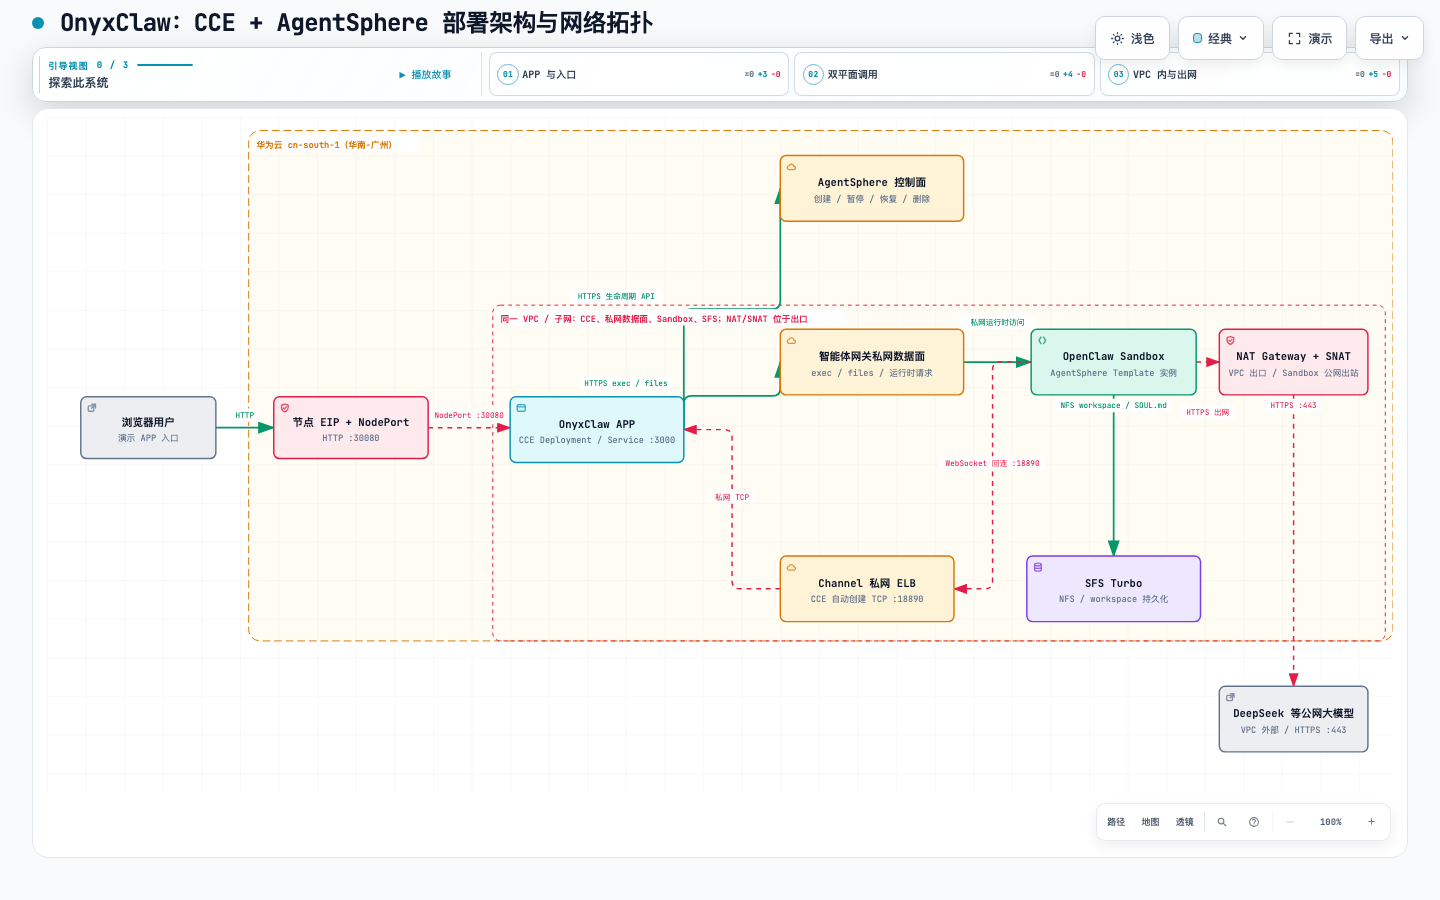
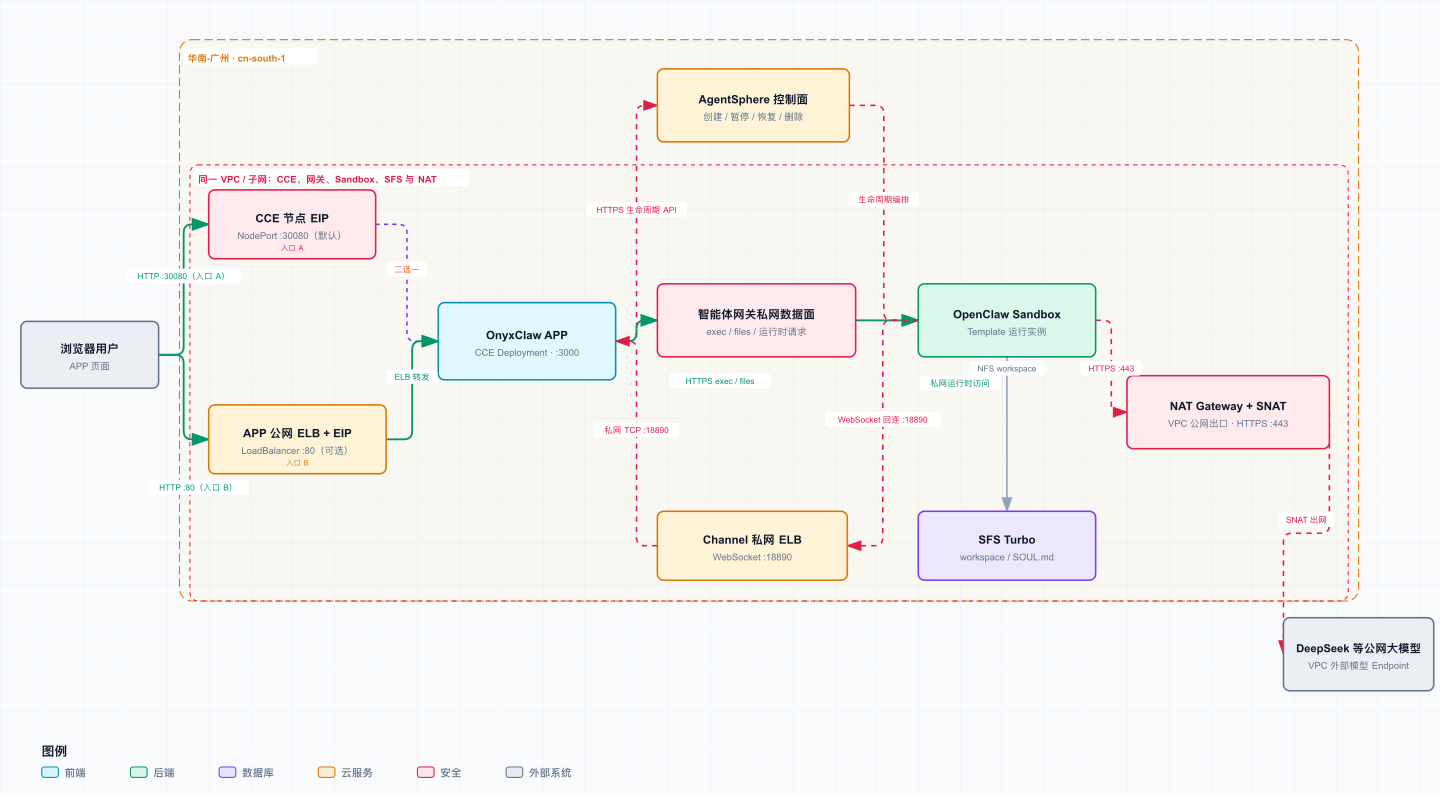
[feat]: 增加集群app elb选项；调整架构图；添加skill方便agent管理流程

diff --git a/README.md b/README.md
@@ -10,14 +10,27 @@ pause/resume → reset/kill 清理。
 
 ![OnyxClaw CCE + AgentSphere 部署架构与网络拓扑](./assets/onyxclaw-cce-agentsphere-architecture.visual-check.1440x900.light.png)
 
-拓扑的关键约束如下：
+拓扑的关键约束说明如下：
 
 - CCE、智能体网关、Template/Sandbox 与 SFS Turbo 必须在同一 VPC；网关必须开启私网访问。
 - APP 对 AgentSphere 的调用分为两条并行链路：**控制面**只处理 Sandbox 的创建、暂停、恢复与删除；
   **私网数据面**处理 `exec`、文件读写等运行时请求。
-- APP 页面使用 NodePort `30080`；Channel 由 CCE 自动创建私网 ELB，监听 `18890/TCP`，Sandbox 通过 WebSocket 回连。
+- APP 页面默认使用节点 EIP 上的 NodePort `30080`；无法绑定节点 EIP 时，可在首次部署前设置
+  `APP_ACCESS_MODE=public-elb`，由 CCE 自动创建公网 ELB 并申请、绑定 APP 专用 EIP。Channel 始终由 CCE
+  自动创建私网 ELB，监听 `18890/TCP`，Sandbox 通过 WebSocket 回连。
 - Sandbox 访问 DeepSeek 等公网模型只能走其所在子网的 NAT Gateway + SNAT；节点公网 EIP 不能代替 SNAT EIP。
-- SFS Turbo 挂载固定 workspace，保存 `SOUL.md` 等状态；AgentSphere 提供 pause/resume 能力。
+- SFS Turbo 挂载固定 workspace，保存 `SOUL.md` 等状态。
+
+APP 浏览器入口与节点 EIP 的对应关系说明：
+
+| 浏览器访问方式 | `config/config.env` | `iac/cce/terraform.tfvars` | 浏览器地址 |
+| --- | --- | --- | --- |
+| 默认：节点 EIP + NodePort | 不填写 `APP_ACCESS_MODE`（默认 `nodeport`） | `enable_worker_node_eip = true` | `http://<node-eip>:30080` |
+| 可选：APP 公网 ELB + EIP | `APP_ACCESS_MODE=public-elb` | 通常 `enable_worker_node_eip = false` | 部署输出的 `http://<elb-eip>` |
+
+公网 ELB 模式下，EIP 绑定到 APP 的 ELB，而不是工作节点。只有还要直接 SSH 到节点排障时，才在公网 ELB
+模式下保留 `enable_worker_node_eip = true`；这会额外占用一条 EIP 配额。无论选择哪种浏览器入口，API Server
+EIP 与 Sandbox 的 SNAT EIP 都仍是独立且必需的资源。
 
 ## 选择部署路径
 
@@ -25,13 +38,14 @@ pause/resume → reset/kill 清理。
 
 | 你的条件 | 推荐路径 | AI Agent 负责 | 人工必须完成 |
 | --- | --- | --- | --- |
-| 有华为云 AK/SK，且可使用 AI Agent | **最快自动化路径** | 按 Terraform 创建独立 VPC/子网、CCE、节点/EIP、NAT/SNAT 与 SFS；预检、准备 SFS、部署 APP、收集验收证据。 | 在本地安全提供 AK/SK、节点登录方式并审阅 Terraform plan；从 CCE 下载 kubeconfig；在 AgentSphere 控制台创建私网网关和 Template；填写 4 项环境信息与 2 个 API Key。 |
+| 有华为云 AK/SK，且可使用 AI Agent | **最快自动化路径** | 按 Terraform 创建独立 VPC/子网、CCE、节点/EIP、NAT/SNAT 与 SFS；预检、准备 SFS、部署 APP、收集验收证据。 | 在本地安全提供 AK/SK、节点登录方式并审阅 Terraform plan；从 CCE 下载 kubeconfig；在 AgentSphere 控制台创建私网网关和 Template；填写 4 项环境信息与 2 个 API Key。若节点不能绑定 EIP，选择 APP 的公网 ELB 入口。 |
 | 没有 AK/SK，但可使用 AI Agent | **半自动路径** | 根据本包手册检查人工创建的资源，执行 kubeconfig/RBAC 预检、SFS 准备、APP 部署、运行时 DNS 检查与验收辅助。 | 在华为云控制台创建 VPC、CCE、NAT/SNAT、SFS；下载 kubeconfig；创建私网网关和 Template；填写本地配置与密钥。 |
 | 没有 AK/SK，也没有 AI Agent | **人工路径** | 不适用。 | 按控制台手册创建云资源，按部署手册执行脚本、打开 APP，并完成全部验收。 |
 
 AI Agent 可以是 Codex 或其他能读取仓库文件、运行 Terraform / Node.js / kubectl 的 Agent。所有 Agent 都应先阅读
-[AGENTS.md](./AGENTS.md) 和 [Agent 部署 Runbook](./docs/AGENT_DEPLOYMENT.md)。AK/SK、kubeconfig、节点密码和
-API Key 只能保存在本地受保护文件或凭据环境中，不能提交、粘贴进聊天或写入 Terraform plan。
+[AGENTS.md](./AGENTS.md) 和 [Agent 部署 Runbook](./docs/AGENT_DEPLOYMENT.md)。支持 Skill 的 Agent 可使用本包的
+[OnyxClaw CCE 部署编排 Skill](./skills/onyxclaw-cce-deploy/SKILL.md)，以现有配置和脚本推进完整闭环。AK/SK、
+kubeconfig、节点密码和 API Key 只能保存在本地受保护文件或凭据环境中，不能提交、粘贴进聊天或写入 Terraform plan。
 
 ## 从零到端到端验收的闭环
 
@@ -40,7 +54,7 @@ API Key 只能保存在本地受保护文件或凭据环境中，不能提交、
 | 阶段 | 完成动作 | 继续条件 / 输出 |
 | --- | --- | --- |
 | 1. 选择路径与权限 | 选择上表路径；确认账号已开通 CCE、SFS Turbo、AgentSphere，且 Region 为 `cn-south-1`。 | 快速路径还需本地可用 AK/SK；其余路径按控制台权限执行。 |
-| 2. 创建基础设施 | 通过 Terraform 或控制台创建同一 VPC/子网中的 CCE、工作节点、NAT/SNAT 和 SFS Turbo。 | 节点为 Ready；Sandbox 子网可经 SNAT HTTPS 出网；取得 SFS ID 与 NFS 根路径。 |
+| 2. 创建基础设施 | 通过 Terraform 或控制台创建同一 VPC/子网中的 CCE、工作节点、NAT/SNAT 和 SFS Turbo；选择 APP 的浏览器入口。 | 节点为 Ready；Sandbox 子网可经 SNAT HTTPS 出网；取得 SFS ID 与 NFS 根路径。NodePort 需要节点 EIP；公网 ELB 由部署脚本后续创建并绑定 EIP。 |
 | 3. 完成人工控制台边界 | 从 CCE 下载 kubeconfig；在 AgentSphere 创建开启私网访问的网关；在同 VPC 创建 Template。 | 得到 kubeconfig、网关私网数据面 URL、Template ID。Template 的“选择镜像”直接填写固定公开 OpenClaw tag。 |
 | 4. 填写本地输入 | 运行 `./scripts/init.sh`。 | `config/config.env` 填 4 项；`config/secrets.env` 填 2 个 API Key。 |
 | 5. 准备与部署 | 初始化 SFS workspace；执行离线检查、集群预检、server dry-run 和正式部署。 | `SFS_PREPARE_OK`；APP Pod Ready；控制面和网关私网数据面 DNS 均可解析。 |
@@ -100,6 +114,7 @@ node scripts/deploy.mjs --config config/config.env --secrets config/secrets.env 
 | Terraform 创建 VPC、CCE、NAT/SNAT、SFS | [Terraform 基础设施与 CCE](./iac/cce/README.md) |
 | 人工部署命令、页面使用与完整验收 | [人工部署与使用](./docs/HUMAN_DEPLOYMENT.md) |
 | 供任意 AI Agent 执行的安全边界、证据和停止条件 | [Agent 部署 Runbook](./docs/AGENT_DEPLOYMENT.md) |
+| 支持 Skill 的 Agent 的部署编排入口 | [OnyxClaw CCE 部署编排 Skill](./skills/onyxclaw-cce-deploy/SKILL.md) |
 | 当前稳定镜像和关键运行时约束 | [稳定基线](./docs/references/CURRENT_DEMO_BASELINE.md) |
 | 空账号实际验证的经验与故障案例 | [空账号自测记录](./docs/references/NEW_ACCOUNT_VALIDATION.md) |
 

diff --git a/skills/onyxclaw-cce-deploy/SKILL.md b/skills/onyxclaw-cce-deploy/SKILL.md
@@ -1,0 +1,78 @@
+---
+name: onyxclaw-cce-deploy
+description: "编排 OnyxClaw 在华为云 CCE 与 AgentSphere 的从前置检查到端到端验收部署。适用于需要复用本仓库现有 Terraform、config 和 scripts 的受控部署；不用于另建部署器或绕过 AgentSphere 控制台步骤。"
+---
+
+# OnyxClaw CCE 部署编排
+
+在本仓库中编排一次可审计的部署闭环。Skill 只决定下一步、收集缺口并调用仓库既有入口；基础设施定义、
+本地配置和 Kubernetes 写操作的唯一来源分别仍是 `iac/cce/`、`config/` 与 `scripts/`。
+
+## 开始前
+
+1. 找到仓库根目录：其中必须同时存在 `AGENTS.md`、`scripts/deploy.mjs`、`config/config.env.example` 和
+   `iac/cce/`。在任何写操作前完整阅读 `AGENTS.md` 与 `docs/AGENT_DEPLOYMENT.md`。
+2. 保留现有工作树和本地配置。不要创建第二套 `.env`、YAML、Terraform 或部署脚本；真实密钥、kubeconfig、
+   节点密码和 AK/SK 既不输出，也不写入可提交文件。
+3. 对空账号或需要新建基础设施的请求，额外阅读 `docs/CLOUD_PREREQUISITES.md` 与 `iac/cce/README.md`。
+   AgentSphere 网关和 Template 是人工控制台边界，不能模拟页面操作或臆测 API。
+
+## 编排流程
+
+### 1. 先确定路径和入口
+
+将本次任务归类为一个路径，并说明缺少什么才能继续：
+
+- **已有 CCE**：使用已有 kubeconfig、SFS、私网网关和 Template，跳过 Terraform。
+- **空账号且有 AK/SK**：用 `iac/cce/` 生成独立资源的 Terraform plan；只在用户查看具体 plan 并明确授权后才可 apply。
+- **空账号但无 AK/SK**：按 `docs/CLOUD_PREREQUISITES.md` 指导用户在控制台完成资源准备，再回到既有 APP 部署流程。
+
+读取根 README 的“APP 浏览器入口与节点 EIP 的对应关系”，让用户明确选择 NodePort 或 `public-elb`。只有用户
+明确选择 `APP_ACCESS_MODE=public-elb` 时，才可创建公网 APP ELB；这是公网暴露变更。不要把节点 EIP、API Server
+EIP、APP ELB EIP 和 Sandbox SNAT EIP 混为同一资源。
+
+### 2. 处理人工边界和最小输入
+
+用 `./scripts/init.sh` 仅创建缺失的本地配置文件。引导用户只在现有 `config/config.env` 与
+`config/secrets.env` 中填写输入：
+
+- `KUBECONFIG`、AgentSphere 私网数据面 URL、Template ID、SFS Turbo ID；
+- AgentSphere E2B API Key 与模型 API Key。
+
+在继续前，确认网关已开启私网访问，网关、Template/Sandbox、CCE 与 SFS 位于同一 VPC，且 Sandbox 子网具有
+通往模型 Endpoint 的 NAT Gateway + SNAT 出网。Template 创建完成后才接受 Template ID；只记录非敏感的完成状态。
+
+### 3. 运行可逆检查
+
+按此顺序执行并解释每个失败的缺口，不要跳过失败检查：
+
+1. `node scripts/deploy.mjs --config config/config.env --secrets config/secrets.env --dry-run`
+2. 若 SFS workspace 未准备，运行 `scripts/prepare-sfs.sh`，以 `SFS_PREPARE_OK` 和 UID/GID `1000` 写权限为通过条件。
+3. `./scripts/deploy.sh --check-cluster`
+4. `./scripts/deploy.sh --server-dry-run`
+
+Terraform 路径中，先运行 `terraform init`、`terraform fmt -check`、`terraform validate` 和
+`terraform plan -out=<本次唯一 plan 文件>`。展示 plan 的资源增删摘要后停止，等待用户对该 plan 明确授权；
+`terraform apply` 或 `terraform destroy` 从不因 Skill 调用而自动获得授权。
+
+### 4. 部署与浏览器验收
+
+用户明确要求正式部署后，运行唯一的 Kubernetes 写入口 `./scripts/deploy.sh`。记录但不泄露：APP Service 入口、
+Channel 私网 ELB 地址、APP Pod Ready、Provider/Template/Model 的 `/api/ui-config` 结果和 DNS 检查结果。
+
+APP Ready 只代表应用部署完成。请用户在浏览器完成并逐项确认：
+
+1. 点击“进入龙虾模式”创建 Sandbox；
+2. 写入并确认 `SOUL.md`；
+3. 等待 Channel 回连并完成一轮模型对话；
+4. pause/resume 后确认同一 Sandbox 与 SOUL 状态仍在；
+5. reset/kill 后按明确 Sandbox ID 确认清理。
+
+将结果分为“基础设施”“应用部署”“端到端验收”三类；任何一类未完成都要明确标记，而不能宣称全流程通过。
+
+## 停止与收尾
+
+- 新增 IAM/RBAC、网络暴露、安全组、AgentSphere Template 变更或未知既有资源冲突时，说明精确影响并等待用户决定。
+- 清理先在 APP 内 reset 明确的 Sandbox；云资源只处理用户明确授权且 ID 已确认的单个对象。Terraform 清理同样先生成
+  destroy plan、展示摘要并取得授权。
+- 最终报告给出：所选路径、入口模式、已验证证据、未完成项、相关资源 ID/地址的非敏感摘要，以及下一步或清理建议。

diff --git a/docs/AGENT_DEPLOYMENT.md b/docs/AGENT_DEPLOYMENT.md
@@ -31,6 +31,9 @@ Template、CCE 到 AgentSphere 的网络、
   出网连通性验证；
 - CCE 自动创建 Channel 私网 ELB 所需的网络条件；不预创建 ELB、`18890/TCP` 监听器或后端，全部交由
   CCE LoadBalancer Service 托管；
+- APP 浏览器入口的明确选择：默认 `nodeport` 需要节点 EIP；只有用户明确在 `config/config.env` 设置
+  `APP_ACCESS_MODE=public-elb` 时，才由 CCE LoadBalancer Service 创建公网 APP ELB 并申请、绑定 EIP。
+  这是新增公网暴露，Agent 不得自行启用；
 - 与 CCE/AgentSphere 同 VPC 的 SFS Turbo ID，以及 UID/GID 1000 写权限验证结果。
 
 真实 Secret 只能进入本地 `config/secrets.env` 和 Kubernetes Secret。不得打印、回显、提交、写入
@@ -107,7 +110,7 @@ server-side dry-run 当成真实部署成功证据。
 node scripts/deploy.mjs --config config/config.env --secrets config/secrets.env
 ```
 
-脚本按以下顺序执行：Namespace → APP Service → Channel Service → 等待 Channel ELB →
+脚本按以下顺序执行：Namespace → APP Service → Channel Service →（若选择公网 APP ELB，等待其 EIP）→ 等待 Channel ELB →
 Provider ConfigMap → Secret → Deployment → rollout → Pod 内 `/api/ui-config` 验证。
 
 不得手工创建另一套 Manifest。脚本失败后先读取事件、Pod 状态和脱敏日志；不得通过放宽安全组、
@@ -119,7 +122,8 @@ Provider ConfigMap → Secret → Deployment → rollout → Pod 内 `/api/ui-co
 
 - Deployment 为期望副本数且全部 Ready；
 - APP Pod `imageID` 是已验证的不可变 digest；
-- APP 与 Channel Service 的类型、端口和 Channel ELB 地址符合输入；
+- APP 与 Channel Service 的类型、端口、APP 浏览器入口和 Channel ELB 地址符合输入；在 `public-elb` 模式下，
+  APP ELB 必须有公网 EIP，且浏览器通过 `http://<elb-eip>` 打开页面；
 - `/api/ui-config` 返回 `deploymentMode=cloud`、
   `providerId=huaweicloud-agentsphere`、正确 Region/Template/Model；
 - ConfigMap 中没有 Key/Token，Secret 只检查四个预期键名；
@@ -135,8 +139,8 @@ Provider ConfigMap → Secret → Deployment → rollout → Pod 内 `/api/ui-co
 ## 故障与停止条件
 
 - `ImagePullBackOff`：核对 APP 镜像 digest、镜像仓库权限和 `IMAGE_PULL_SECRET`，不改成浮动标签。
-- ELB 长时间无地址：核对 `kubernetes.io/elb.id` 或 `kubernetes.io/elb.autocreate`、子网和
-  CCE 事件；不得把私网 Channel 擅自改为公网。
+- ELB 长时间无地址：核对 `kubernetes.io/elb.id` 或 `kubernetes.io/elb.autocreate`、子网、EIP 配额和
+  CCE 事件；不得把私网 Channel 擅自改为公网。APP 公网 ELB 仅能在用户已明确选择 `public-elb` 时排障。
 - APP 启动时报 Provider/Secret 缺失：比较 ConfigMap 字段与 Secret 键名，不读取值。
 - Sandbox API 失败：保留阶段、status code、request ID 和脱敏日志，区分控制面/数据面。
 - Channel 失败：从 Sandbox 视角验证私网 ELB、路由、DNS、端口和 WebSocket Upgrade。

diff --git a/docs/HUMAN_DEPLOYMENT.md b/docs/HUMAN_DEPLOYMENT.md
@@ -54,8 +54,8 @@ AgentSphere 控制台人工完成。
 签名密钥或 Gateway token；部署器会使用内部占位符，稳定 APP 会在运行时初始化 Gateway token。
 
 为保证部署结果可复现，部署器固定使用华南-广州、`onyxclaw` namespace、已验证的 APP digest、DeepSeek
-`deepseek-v4-flash`、NodePort `30080`、以及由 CCE 自动创建的私网 Channel ELB（`18890/TCP`）。SFS
-workspace 固定为 `/onyxclaw/workspace`。这些不是首次部署的填写项。
+`deepseek-v4-flash`、以及由 CCE 自动创建的私网 Channel ELB（`18890/TCP`）。默认 APP 入口是 NodePort
+`30080`；SFS workspace 固定为 `/onyxclaw/workspace`。这些不是首次部署的必填项。
 
 如果同一个 kubeconfig 保存多个集群，可额外填写可选 `KUBE_CONTEXT`；否则部署器使用该 kubeconfig 的
 `current-context`。需要隔离多个演示时也可选填 `NAMESPACE`，默认值为 `onyxclaw`。
@@ -98,6 +98,26 @@ node scripts/deploy.mjs --config config/config.env --secrets config/secrets.env 
 
 APP 默认以 NodePort `30080` 提供页面。Demo 可通过已授权来源的节点公网 EIP 访问，也可使用
 `kubectl port-forward`；不要为了方便把整个安全组开放到公网。
+
+若节点因 EIP 配额或账号策略无法绑定公网 EIP，在**首次部署前**将 `config/config.env` 中的可选项设为：
+
+```dotenv
+APP_ACCESS_MODE=public-elb
+```
+
+部署器会把 APP Service 创建为 `LoadBalancer`：CCE 自动创建公网共享型 ELB、为其申请并绑定 EIP，并将
+`80/TCP` 转发到 APP 的 `3000/TCP`。脚本等待 ELB 就绪后会输出 `APP URL: http://<elb-eip>`；以该地址打开
+页面。此时 Terraform 的 `enable_worker_node_eip` 可以设为 `false`，但账号仍要有足够 EIP 配额供 API Server、
+SNAT 与 APP ELB 使用。模式一旦创建，不得直接修改 Service 的 ELB 注解；如需切换，先确认业务影响并对明确的
+`service/onyxclaw-app` 执行单独迁移。
+
+| APP 浏览器入口 | `APP_ACCESS_MODE` | `enable_worker_node_eip` |
+| --- | --- | --- |
+| 节点 EIP + NodePort `30080`（默认） | 不填写（默认 `nodeport`） | `true` |
+| APP 公网 ELB + EIP | `public-elb` | 通常 `false` |
+
+公网 ELB 模式下只有需要直接 SSH 调试工作节点时，才保留 `enable_worker_node_eip = true`；这与浏览器访问 APP
+无关，并额外占用节点 EIP 配额。
 
 ## 4. 使用与端到端验收
 

diff --git a/iac/cce/README.md b/iac/cce/README.md
@@ -60,7 +60,18 @@ SFS Turbo ID/NFS 根路径，以及 AgentSphere 网关 URL 和 Template ID。
 ### Demo/Test 预检与常见恢复路径
 
 - 若要通过节点公网 IP 的 `NodePort 30080` 打开 APP，设置 `enable_worker_node_eip = true`，并预留 API Server、
-  SNAT、节点三条 EIP 配额。仅运行 kubectl 或使用 port-forward 时可设为 `false`。
+  SNAT、节点三条 EIP 配额。若节点无法绑定 EIP，设为 `false`，后续在唯一的 `config/config.env` 设置
+  `APP_ACCESS_MODE=public-elb`；APP 部署脚本会让 CCE 自动创建公网 ELB 并申请、绑定它自己的 EIP。该 EIP 不由
+  Terraform 管理，仍应预留 API Server、SNAT、APP ELB 三条 EIP 配额。仅运行 kubectl 或使用 port-forward 时可设为
+  `false` 且不启用公网 APP ELB。
+
+| APP 浏览器入口 | `APP_ACCESS_MODE` | `enable_worker_node_eip` |
+| --- | --- | --- |
+| 节点 EIP + NodePort `30080`（默认） | 不填写（默认 `nodeport`） | `true` |
+| APP 公网 ELB + EIP | `public-elb` | 通常 `false` |
+
+即使使用 APP 公网 ELB，仍可为了直接 SSH 调试而设置 `enable_worker_node_eip = true`；但它不是 APP 访问的要求，
+会额外申请节点 EIP。
 - 给 `sfs_name` 设置当前账号中未使用的名称；SFS Turbo 的同名创建会发生冲突。
 - apply 部分成功时，保留 state 和已创建资源；修复单个输入后重新生成 plan。例如：
 

diff --git a/AGENTS.md b/AGENTS.md
@@ -4,6 +4,9 @@
 [`docs/AGENT_DEPLOYMENT.md`](./docs/AGENT_DEPLOYMENT.md)。它定义了所需输入、密钥处理、只读预检、
 唯一写入口、验收证据与停止条件。
 
+支持 Skill 的 Agent 可额外使用 [`skills/onyxclaw-cce-deploy/SKILL.md`](./skills/onyxclaw-cce-deploy/SKILL.md)
+编排完整部署闭环；该 Skill 只能调用本仓库已有入口，不能成为第二套配置或写操作路径。
+
 若目标是全新华为云账号或空环境，先完整阅读
 [`docs/CLOUD_PREREQUISITES.md`](./docs/CLOUD_PREREQUISITES.md)，并将其中的云资源创建和 Template
 控制台步骤视为人工边界；其中 VPC、CCE、NAT/SNAT 与 SFS 也可按 `iac/cce/` 的显式 plan 受控创建，
